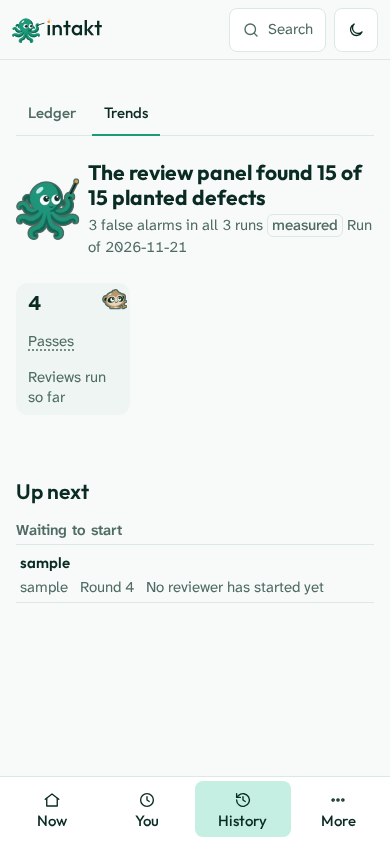
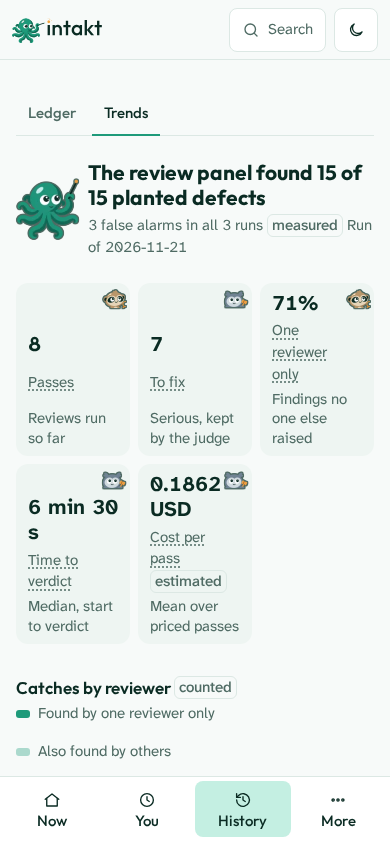
docs(dashboard): reshoot the Trends captures from judged, priced review rounds

diff --git a/.evidence/3836/README.md b/.evidence/3836/README.md
@@ -4,12 +4,16 @@ Files: `<page>-<theme>-<width>-build.png` beside `<page>-<theme>-<width>-mock.pn
 
 Capture rules, the same as `docs/design/mocks/tools/screenshots.js` uses for its mock images: viewport 1440x900 full page, 1920x1080 full page (the generator has no History entry at 1920, so the mock was shot with the same call at the generator's 1920 entry size), 390x844 viewport only (not full page). The build side uses the same viewports and the same `colorScheme`.
 
-The build runs on SQLite with the ledger seeded by appending events through the Ledger service: two owner changes, one red head and four review rounds with two reviewers each. Names and counts differ from the mock by data, which is not a defect.
+The build runs on SQLite with the ledger seeded by appending events through the Ledger service. The History build captures come from the first seed: two owner changes, one red head and four review rounds with two reviewers each, none judged. The Trends build captures come from a second, fuller seed on a fresh database (script below): six judged rounds on four days (Nov 24 to 27), each with two reviewer starts, two verdicts, each reviewer's findings with their severities, a priced usage (`claude-sonnet-5-5`, price table of the sample project) and a judge row with kept, merged, deferred and rejected findings, plus two open rounds on Nov 28 (one with both reviewers started, one with none). Names and counts differ from the mock by data, which is not a defect.
+
+Two more build images, `trends-{light,dark}-390-build-full.png`, are full-page captures at 390x844, added because the viewport-only 390 capture ends at the first chart's legend. In a full-page capture the fixed bottom bar is drawn once, at the first viewport's bottom edge, where it covers the Correctness heading; on a phone it stays at the bottom of the screen.
 
 ## What differs from the mock
 
 - Ledger: same parts as the mock (title and subtitle, Ledger/Trends sub-tabs, filter chips, text filter, table with When, Source, What, Change, Until; on 390 the stacked list rows with the chips scrolling sideways). The When column prints the absolute UTC time and What the event kind with its project, where the mock shows "Today 11:02" and a sentence. Both are the shipped page's own wording rules (tests in `tests/Core/Dashboard/UseCase/ShowHistoryControllerTest.php`), so they are the page's content (#3835), not a layout defect.
-- Trends: the sub-tabs, theme colors and component styles match. The content differs: the page shows the review panel's bench result, three figures, checked findings and Up next, where the mock draws queue, merge, cycle time and rework charts and the 7 days/14 days/8 weeks chips. That is the page's content (#3835).
+- Ledger at 390: each stacked row of the build ends in two bare "None" lines (the Change and Until values of a row that has neither) with no label, where the mock's rows carry their labels ("Round 1 → 2", "CI running → held", "Until the image builds") and print "None" once. For the owner's Designer review; the row's content belongs to #3835.
+- Trends: the sub-tabs, theme colors and component styles match. The build captures at 1440 and 1920 show, top to bottom: the bench headline; five tiles in one row (Passes 8, To fix 7, One reviewer only 71%, Time to verdict 6 min 30 s, Cost per pass 0.1862 USD); the `.charts` grid with Catches by reviewer (Correctness and Security small charts with their legend), Checked findings (To fix 7, Merged 2, Deferred 3, Rejected 4) and Passes and cost per day (five days of passes, four priced days and one "No data"); and Up next with one round In progress and one Waiting to start. The 390 viewport capture shows the headline, the five tiles in rows of three and the first chart's title and legend; the full-page 390 captures show the three charts in one column and Up next. The mock draws other content: the 7 days/14 days/8 weeks chips, queue, merges, findings per merge, agent share, cycle time and rework charts, as bar and line charts with a sentence under each title and "Show as table" links, and no tiles and no Up next. The shared layout parts match: a two-column chart grid at 1440 and 1920 that becomes one column at 390, small multiples side by side, one hue, hairline grids and axis text. Which charts the page draws is the page's content (#3835).
+- Defect found and fixed here: on the populated page at 390 the cost chart's value-axis labels ("0.4000", six characters) started left of the drawing and were cut by the page edge. `templates/dashboard/components/bar_chart.html.twig` now widens the plot's left gutter to the longest value label; test `testEveryValueAxisLabelOfACostChartStartsInsideTheDrawing` (and `testACountChartKeepsItsNarrowGutterBecauseItsAxisLabelsAreShort` for the unchanged side) in `tests/Core/Dashboard/UseCase/BarChartTemplateTest.php`. The Trends build captures were taken with the fix. Measured in the browser at 390, 1440 and 1920: no tile figure overlaps its character image, and the page does not scroll sideways.
 - Shell: the rail reads Now, You, History, Projects where the mock reads Board, Waiting on you, Projects, Team, History, Settings. Shell content, outside this part.
 - Trends has no visible History title above the sub-tabs, where `docs/design/mocks/trends.html` shows one. The page's h1 is screen-reader only, a deliberate choice of the page (#3835) covered by `testThePageNameStaysAHiddenHeadingAndTheBenchSentenceIsNotTheH1` in `tests/Core/Dashboard/UseCase/ShowTrendsControllerTest.php`; flagged for the owner's Designer review.
 
@@ -38,4 +42,83 @@ const sizes = [{ w: 1440, h: 900, full: true }, { w: 1920, h: 1080, full: true }
         }
   await browser.close();
 })();
+```
+
+## The seed of the Trends captures
+
+Run as `php seed.php <repository root> claude-sonnet-5-5` with the install's `DATABASE_URL` and `INTAKT_CONFIG` set (the script lives outside the repository). The full-page 390 captures use the capture script's 390x844 context with `fullPage: true` on `/trends`.
+
+```php
+<?php
+
+declare(strict_types=1);
+
+// usage: php seed.php <repository root>
+// Appends judged, priced review rounds through the Ledger service of the install the environment names.
+
+use Intakt\Core\Ledger\Contract\LedgerEvent;
+use Intakt\Core\Ledger\Contract\LedgerEventKind;
+use Intakt\Core\Ledger\Infrastructure\DoctrineLedger;
+use Intakt\Kernel;
+use Symfony\Component\Clock\MockClock;
+use Symfony\Component\Dotenv\Dotenv;
+use Symfony\Component\Uid\Uuid;
+
+$root = $argv[1];
+require $root.'/vendor/autoload.php';
+new Dotenv()->bootEnv($root.'/.env');
+
+$kernel = new Kernel('dev', true);
+$kernel->boot();
+$clock = new MockClock('2026-11-24 09:00:00', 'UTC');
+$ledger = new DoctrineLedger($kernel->getContainer()->get('doctrine'), $clock);
+$model = $argv[2];
+
+$add = static function (LedgerEventKind $kind, array $payload, string $at, ?string $subject = null) use ($ledger, $clock): void {
+    $clock->modify($at);
+    $result = $ledger->append(new LedgerEvent($kind, json_encode($payload, JSON_THROW_ON_ERROR), $subject));
+    if (!$result->succeeded()) {
+        throw new RuntimeException('append failed at '.$at);
+    }
+};
+$finding = static fn (string $id, string $severity, int $line, array $merged = []): array => ['id' => $id, 'severity' => $severity, 'text' => 'Finding '.$id.' of the seeded round.', 'merged' => $merged, 'file' => 'src/discount.js', 'line' => $line];
+
+// change, number, start, minutes to verdict, correctness findings, security findings, act, follow-ups, judged findings, tokens
+$rounds = [
+    ['feat/discount-codes', 1, '2026-11-24 09:00:00', 6, ['F1' => 'P1', 'F2' => 'P3'], ['F3' => 'P1', 'F4' => 'P2'], ['F1', 'F4'], ['F2'], [$finding('F1', 'P1', 12, ['F3']), $finding('F2', 'P3', 40), $finding('F3', 'P1', 12), $finding('F4', 'P2', 30)], [42000, 3100]],
+    ['feat/discount-codes', 2, '2026-11-24 14:30:00', 4, ['F1' => 'P2'], [], ['F1'], [], [$finding('F1', 'P2', 18)], [38000, 1900]],
+    ['fix/rounding', 1, '2026-11-25 10:15:00', 9, ['F1' => 'P2', 'F2' => 'P3'], ['F3' => 'P3'], ['F1'], ['F3'], [$finding('F1', 'P2', 7), $finding('F2', 'P3', 22), $finding('F3', 'P3', 51)], [51000, 4200]],
+    ['feat/export', 1, '2026-11-26 08:40:00', 12, ['F1' => 'P1', 'F2' => 'P2'], ['F3' => 'P2', 'F4' => 'P3', 'F5' => 'P1'], ['F1', 'F3', 'F5'], [], [$finding('F1', 'P1', 5, ['F5']), $finding('F2', 'P2', 60), $finding('F3', 'P2', 33), $finding('F4', 'P3', 71), $finding('F5', 'P1', 5)], [67000, 5600]],
+    ['feat/export', 2, '2026-11-27 11:05:00', 5, ['F1' => 'P3'], ['F2' => 'P2'], ['F2'], [], [$finding('F1', 'P3', 14), $finding('F2', 'P2', 48)], [45000, 2500]],
+    ['fix/rounding', 2, '2026-11-27 16:20:00', 7, [], ['F1' => 'P3'], [], ['F1'], [$finding('F1', 'P3', 9)], [36000, 1400]],
+];
+
+$reviewer = static fn (string $round, string $role): array => ['round' => $round, 'reviewer' => $round.'-'.$role, 'role' => $role, 'tier' => 'standard'];
+$at = static fn (string $start, string $offset): string => new DateTimeImmutable($start, new DateTimeZone('UTC'))->modify($offset)->format('Y-m-d H:i:s');
+
+foreach ($rounds as [$change, $number, $start, $minutes, $correctness, $security, $act, $followUps, $findings, $tokens]) {
+    $round = Uuid::v7()->toRfc4122();
+    $add(LedgerEventKind::ReviewStarted, ['round' => $round, 'project' => 'sample', 'reviewers' => 2, 'change' => $change, 'number' => $number], $start);
+
+    foreach (['correctness' => $correctness, 'security' => $security] as $role => $reported) {
+        $add(LedgerEventKind::ReviewerStarted, $reviewer($round, $role), $at($start, '+10 seconds'), $round);
+        $add(LedgerEventKind::VerdictReceived, $reviewer($round, $role) + ['decision' => [] === $reported ? 'approve' : 'changes', 'findings' => count($reported)], $at($start, '+'.($minutes - 2).' minutes'));
+        $add(LedgerEventKind::ReviewerFindingsRecorded, ['round' => $round, 'reviewer' => $round.'-'.$role, 'findings' => array_keys($reported), 'severities' => $reported], $at($start, '+'.($minutes - 2).' minutes'));
+    }
+
+    $call = Uuid::v7()->toRfc4122();
+    $add(LedgerEventKind::UsageRecorded, ['call' => $call, 'phase' => 'started', 'project' => 'sample', 'tier' => 'standard', 'round' => $round, 'model' => $model], $at($start, '+20 seconds'));
+    $add(LedgerEventKind::UsageRecorded, ['call' => $call, 'phase' => 'settled', 'usages' => [['model' => $model, 'prompt' => $tokens[0], 'completion' => $tokens[1], 'total' => $tokens[0] + $tokens[1]]]], $at($start, '+'.($minutes - 1).' minutes'));
+    $add(LedgerEventKind::JudgeDone, ['round' => $round, 'act' => $act, 'follow_ups' => $followUps, 'findings' => $findings, 'fallback' => false], $at($start, '+'.$minutes.' minutes'));
+}
+
+// Two rounds still open, so Up next lists one in progress and one waiting to start.
+$running = Uuid::v7()->toRfc4122();
+$add(LedgerEventKind::ReviewStarted, ['round' => $running, 'project' => 'sample', 'reviewers' => 2, 'change' => 'feat/import', 'number' => 1], '2026-11-28 05:20:00');
+$add(LedgerEventKind::ReviewerStarted, $reviewer($running, 'correctness'), '2026-11-28 05:20:10', $running);
+$add(LedgerEventKind::ReviewerStarted, $reviewer($running, 'security'), '2026-11-28 05:20:10', $running);
+$waiting = Uuid::v7()->toRfc4122();
+$add(LedgerEventKind::ReviewStarted, ['round' => $waiting, 'project' => 'sample', 'reviewers' => 2, 'change' => 'feat/discount-codes', 'number' => 3], '2026-11-28 05:25:00');
+
+echo "seeded ".(count($rounds) + 2)." rounds\n";
 ```
